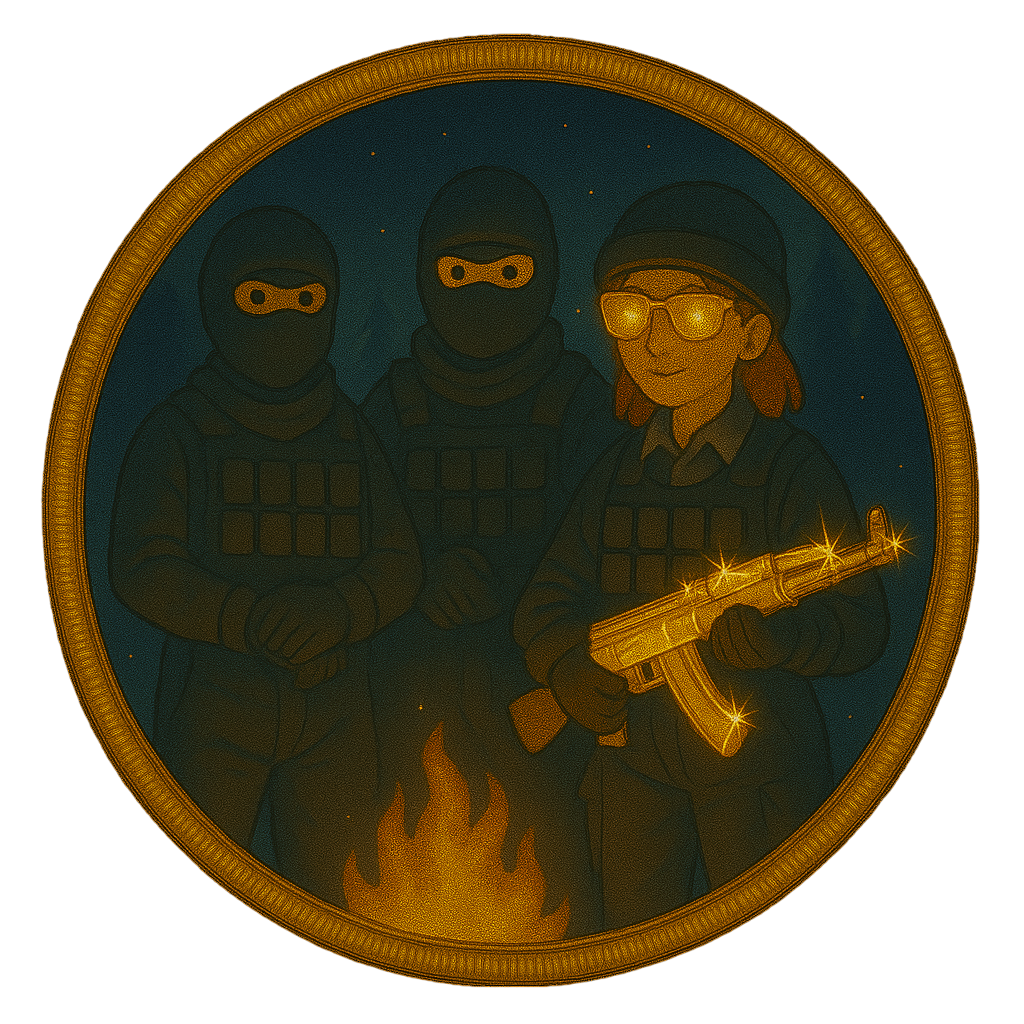
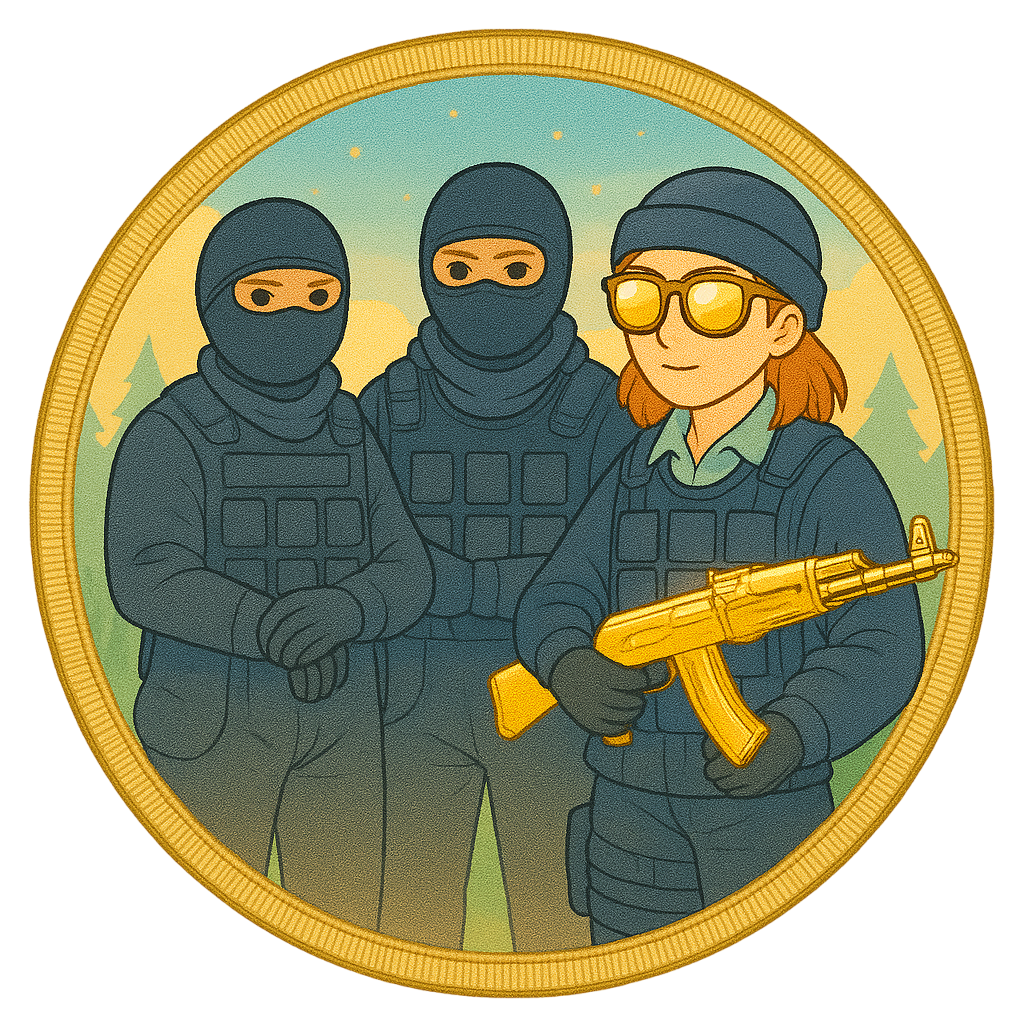
Semana 3

diff --git a/script.js b/script.js
@@ -114,24 +114,24 @@
             },
             {
                 id: 6,
-                name: "Aguarde!",
-                description: "Aguarde!",
-                score: 0,
-                image: placeholder
+                name: "Semana 3: O Desbravador (Bronze)",
+                description: "Jogar 4 diferentes mapas na semana 3",
+                score: 10,
+                image: "badges/Week 3 - Easy.png"
             },
             {
                 id: 7,
-                name: "Aguarde!",
-                description: "Aguarde!",
-                score: 0,
-                image: placeholder
+                name: "Semana 3: O Desbravador (Prata)",
+                description: "Jogar 5 diferentes mapas na semana 3",
+                score: 10,
+                image: "badges/Week 3 - Normal.png"
             },
             {
                 id: 8,
-                name: "Aguarde!",
-                description: "Aguarde!",
-                score: 0,
-                image: placeholder
+                name: "Semana 3: O Desbravador (Ouro)",
+                description: "Jogar 7 diferentes mapas na semana 3",
+                score: 10,
+                image: "badges/Week 3 - Hard.png"
             },
             {
                 id: 9,
@@ -298,10 +298,10 @@
             ,
             {
                 id: 118,
-                name: "Secreta",
-                description: "Esta badge é secreta, nenhum jogador a conseguiu ainda.",
-                score: 0,
-                image: placeholder
+                name: "Deus do Trovao",
+                description: "Matar 10 inimigos com a Zeus",
+                score: 30,
+                image: "badges/ChatGPT Image 12 de nov. de 2025, 20_22_37-Photoroom.png"
             },
             ,
             {
@@ -322,14 +322,14 @@
             {
                 name: "Chalkzera",
                 icon: "https://avatars.steamstatic.com/2fe771fa3a9ff244c7ac87f920aaff328b4373f6_full.jpg",
-                weeklyEarned: [0,1,2],
-                extraEarned: [],
+                weeklyEarned: [0, 1, 2, 3, 4, 5],
+                extraEarned: [118],
             },
             {
                 name: "Ғ Γ Ε Ε Ϻ Λ И",
                 icon: "https://avatars.steamstatic.com/b5b70f62f61309c07f5c5eeec1e93be83759fbbb_full.jpg",
-                weeklyEarned: [0, 1,2,3,4,5],
-                extraEarned: [104],
+                weeklyEarned: [0, 1, 2, 3, 4, 5],
+                extraEarned: [104, 108],
             },
             {
                 name: "flavin",
@@ -352,7 +352,7 @@
             {
                 name: "Mark",
                 icon: "https://avatars.steamstatic.com/b7a198202a491dd17f29437db6bf17393104da7d_full.jpg",
-                weeklyEarned: [0,1,2],
+                weeklyEarned: [0,1,2,3,4],
                 extraEarned: [],
             },
             {
@@ -370,7 +370,7 @@
             {
                 name: "Cezinho",
                 icon: "https://avatars.steamstatic.com/7801e665fec735a18793d8b5fce9ed4baeeeac3a_full.jpg",
-                weeklyEarned: [0],
+                weeklyEarned: [0,3,4],
                 extraEarned: [],
             },
             {
@@ -406,7 +406,7 @@
             {
                 name: "TUCAO",
                 icon: "https://avatars.steamstatic.com/ddc46eb16112a3d755acbae6a6cbbd1d4bd682ee_full.jpg",
-                weeklyEarned: [0,1],
+                weeklyEarned: [0,1,3,4,5],
                 extraEarned: [],
             },
         ];
@@ -417,7 +417,7 @@
                 const cls = `badge ${earned ? "earned" : "silhouette"}`;
                 const src = badge.image;
                 const tooltip = `${badge.name}&#10;${badge.description}&#10;${badge.score}pts`;
-                return `<img src="${src}" class="${cls}" title="${tooltip}" alt="${badge.name}" />`;
+                return `<img src="${src}" class="${cls}" title="${tooltip}" alt="${badge.name}" data-id="${badge.id}" />`;
             }).join("");
         }
 
@@ -467,6 +467,46 @@
         ).reverse();
         badgesContainer.innerHTML = players.map(createPlayerCard).join("");
         document.querySelectorAll('#section .player-card.expanded').forEach(c => c.classList.remove('expanded'));
+
+        // Modal references
+        const modal = document.getElementById("badge-modal");
+        const modalImg = document.getElementById("badge-modal-img");
+        const modalName = document.getElementById("badge-modal-name");
+        const modalDesc = document.getElementById("badge-modal-desc");
+        const modalClose = document.getElementById("badge-modal-close");
+        const allBadges = {};
+        badgesWeekly.forEach(b => allBadges[b.id] = b);
+        badgesExtras.forEach(b => allBadges[b.id] = b);
+
+        // When clicking any badge
+        document.querySelectorAll(".badge").forEach(badge => {
+            badge.addEventListener("click", () => {
+                const badgeId = badge.getAttribute("data-id");
+                console.log(badgeId)
+                console.log("a - " + allBadges)
+                //const badgeData = [...badgesExtras, ...badgesWeekly].find(b => b.id === badgeId);
+                const badgeData = allBadges[badgeId];
+
+                modalImg.src = badgeData.image;
+                modalName.textContent = badgeData.name;
+                modalDesc.textContent = badgeData.description;
+
+                modal.style.display = "flex";
+            });
+        });
+
+        // Close modal
+        modalClose.addEventListener("click", () => {
+            modal.style.display = "none";
+        });
+
+        // Close by clicking outside content
+        modal.addEventListener("click", (e) => {
+            if (e.target === modal) {
+                modal.style.display = "none";
+            }
+        });
+
     }
 });
 

diff --git a/sections/rules.html b/sections/rules.html
@@ -17,12 +17,10 @@
   <p>*O descumprimento das regras pode acarretar em exclusão temporária (cooldown) ou definitiva (banimento) do grupo.</p>
 
   <h1>3. Formação do Lobby</h1>
-  <li>3.1. As partidas oficiais do OPA são realizadas na plataforma Faceit dentro do Clan OPA. (Partidas realizadas fora do Clan (Premiere, Lobby Privado, etc.) não contabilizam nas estatísticas da temporada e Leaderboards)</li>
-  <img src="img/opahub.png" alt="OPA Clan" class="centered-image">
-  <li>3.2. A prioridade de quem joga é definida pela ordem dos "Opas" (ou manifestação de intenção de jogar) no grupo do WhatsApp. O "Opa" expira depois de 15 minutos sem resposta ou sem presença no Discord.</li>
-  <li>3.3. No final de uma partida, se outras pessoas estiverem no Discord aguardando para jogar, e a quantidade de jogadores que "precisam sair" não for suficiente para acomodar os "esperantes", um sorteio será realizado entre os que já jogaram para definir quem fica de fora, com exceção dos jogadores que possuírem e quiserem gastar o "Anjo".</li>
-  <li>3.4. A obtenção do Anjo é automática para todos que forem sorteados e ficarem de fora de uma partida. Os Anjos são registrados no grupo do WhatsApp.</li>
-  <li>3.5. O sorteio é realizado em live stream com utilização de site público em modo melhor de 3 (o primeiro que for sorteado 3 vezes está fora).</li>
+  <li>3.1. A prioridade de quem joga é definida pela ordem de chegada no Discord.</li>
+  <li>3.2. No final de uma partida, se outras pessoas estiverem no Discord aguardando para jogar, e a quantidade de jogadores que "precisam sair" não for suficiente para acomodar os "esperantes", um sorteio será realizado entre os que já jogaram para definir quem fica de fora, com exceção dos jogadores que possuírem e quiserem gastar o "Anjo".</li>
+  <li>3.3. A obtenção do Anjo é automática para todos que forem sorteados e ficarem de fora de uma partida. Os Anjos são registrados no grupo do WhatsApp.</li>
+  <li>3.4. O sorteio é realizado em live stream com utilização de site público em modo melhor de 3 (o primeiro que for sorteado 3 vezes está fora).</li>
   <img src="img/wheel.png" alt="Wheel of Names" class="centered-image">
-  <li>3.6. No caso excepcional em que a quantidade de jogadores com Anjo for maior do que a quantidade de jogadores que "precisam sair" para que os de fora entrem, um sorteio será realizado entre os jogadores com Anjo para definir quem sai. O jogador sorteado não ganha Anjo.</li>
+  <li>3.5. No caso excepcional em que a quantidade de jogadores com Anjo for maior do que a quantidade de jogadores que "precisam sair" para que os de fora entrem, um sorteio será realizado entre os jogadores com Anjo para definir quem sai. O jogador sorteado não ganha Anjo.</li>
 </section>

diff --git a/styles.css b/styles.css
@@ -339,3 +339,44 @@ footer {
     box-shadow: 0 0 12px rgba(120, 180, 255, 0.5);
     filter: brightness(1.1);
 }
+
+/* Modal base */
+.badge-modal {
+    display: none;
+    position: fixed;
+    z-index: 9999;
+    left: 0;
+    top: 0;
+    width: 100%;
+    height: 100%;
+    background: rgba(0,0,0,0.7);
+    justify-content: center;
+    align-items: center;
+}
+
+/* Modal content */
+.badge-modal-content {
+    background: #1a1a1a;
+    padding: 20px;
+    border-radius: 12px;
+    text-align: center;
+    width: 320px;
+    color: #fff;
+    border: 1px solid #333;
+    box-shadow: 0 0 20px rgba(255,165,0,0.3);
+}
+
+    .badge-modal-content img {
+        width: 150px;
+        height: 150px;
+        margin-bottom: 15px;
+    }
+
+#badge-modal-close {
+    position: absolute;
+    top: 10px;
+    right: 20px;
+    font-size: 32px;
+    color: #fff;
+    cursor: pointer;
+}

diff --git a/sections/badges.html b/sections/badges.html
@@ -4,4 +4,13 @@
 
     <div class="badges-container">
     </div>
+
+    <div id="badge-modal" class="badge-modal">
+        <div class="badge-modal-content">
+            <span id="badge-modal-close">&times;</span>
+            <img id="badge-modal-img" src="" alt="">
+            <h2 id="badge-modal-name"></h2>
+            <p id="badge-modal-desc"></p>
+        </div>
+    </div>
 </section>
